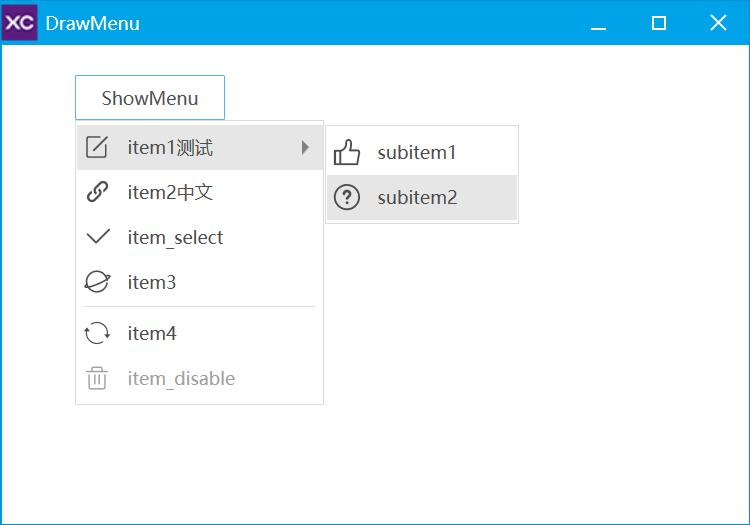
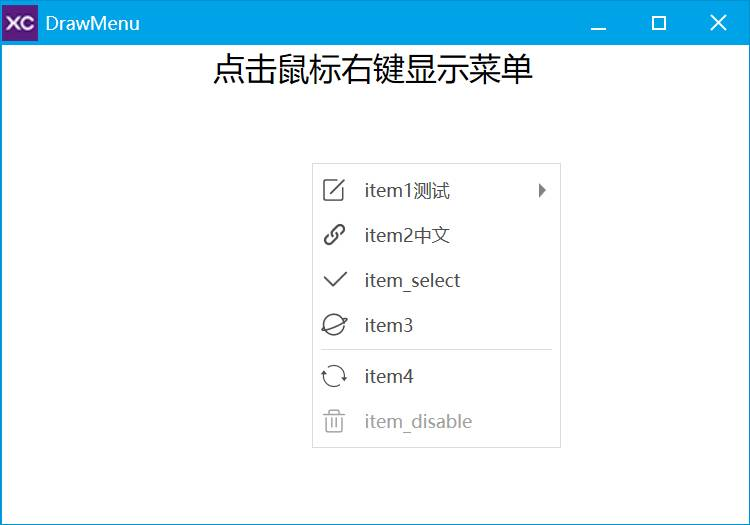
自绘菜单

diff --git a/DrawMenu/DrawMenu.go b/DrawMenu/DrawMenu.go
@@ -13,12 +13,9 @@ import (
 )
 
 var (
-	a   *app.App
-	w   *window.Window
-	btn *widget.Button
-
-	item_selected = true                 // 控制item_select是否选中
-	svgMap        = make(map[int]int, 7) // 存放图片句柄
+	w      *window.Window
+	menu   *widget.Menu
+	svgMap = make(map[int]int) // 存放图片句柄
 )
 
 // 菜单项ID
@@ -34,37 +31,6 @@ const (
 	menuid_item4
 	menuid_item_disable
 )
-
-func main() {
-	// 1.初始化UI库
-	a = app.New(true)
-	a.EnableDPI(true)
-	a.EnableAutoDPI(true)
-	// 2.创建窗口
-	w = window.New(0, 0, 500, 350, "DrawMenu", 0, xcc.Window_Style_Default)
-	w.SetBorderSize(1, 30, 1, 1)
-
-	// 加载所有的svg图片
-	loadAllSvg()
-
-	// 创建一个按钮
-	btn = widget.NewButton(50, 50, 100, 30, "ShowMenu", w.Handle)
-	// 注册按钮被单击事件
-	btn.Event_BnClick(onBnClick)
-
-	// 注册菜单背景绘制事件
-	w.Event_MENU_DRAW_BACKGROUND(onMenuDrawBackground)
-	// 注册菜单项绘制事件
-	w.Event_MENU_DRAWITEM(onMenuDrawItem)
-	// 注册菜单被选择事件
-	w.Event_MENU_SELECT(onMenuSelect)
-
-	// 3.显示窗口
-	w.ShowWindow(xcc.SW_SHOW)
-	// 4.运行程序
-	a.Run()
-	a.Exit()
-}
 
 // 加载所有的svg图片
 func loadAllSvg() {
@@ -85,10 +51,46 @@ func loadSvg(svgText string) int {
 	return hSvg
 }
 
-// 按钮被单击事件
-func onBnClick(pbHandled *bool) int {
+func main() {
+	// 1.初始化UI库
+	app.InitOrExit()
+	a := app.New(true)
+	a.EnableAutoDPI(true).EnableDPI(true)
+
+	// 2.创建窗口
+	w = window.New(0, 0, 500, 350, "DrawMenu", 0, xcc.Window_Style_Default)
+	w.SetBorderSize(1, 30, 1, 1)
+	// 启用窗口布局
+	w.EnableLayout(true)
+	// 水平居中
+	w.SetAlignH(xcc.Layout_Align_Center)
+
+	// 加载所有的svg图片
+	loadAllSvg()
+
+	widget.NewShapeText(0, 0, 400, 30, "点击鼠标右键显示菜单", w.Handle).SetFont(app.NewFont(16).Handle).LayoutItem_SetWidth(xcc.Layout_Size_Auto, 0)
+
+	// 窗口鼠标右键按下事件
+	w.Event_RBUTTONDOWN(onWindowRButtonDown)
+
+	// 注册菜单背景绘制事件
+	w.Event_MENU_DRAW_BACKGROUND(onMenuDrawBackground)
+	// 注册菜单项绘制事件
+	w.Event_MENU_DRAWITEM(onMenuDrawItem)
+	// 注册菜单被选择事件
+	w.Event_MENU_SELECT(onMenuSelect)
+
+	// 3.显示窗口
+	w.ShowWindow(xcc.SW_SHOW)
+	// 4.运行程序
+	a.Run()
+	a.Exit()
+}
+
+// 窗口鼠标右键按下事件
+func onWindowRButtonDown(nFlags uint, pPt *xc.POINT, pbHandled *bool) int {
 	// 创建菜单
-	menu := widget.NewMenu()
+	menu = widget.NewMenu()
 	menu.SetItemHeight(30)          // 设置菜单项高度
 	menu.EnableDrawBackground(true) // 菜单_启用用户绘制背景
 	menu.EnableDrawItem(true)       // 菜单_启用用户绘制项
@@ -97,7 +99,7 @@ func onBnClick(pbHandled *bool) int {
 	menu.AddItemIcon(menuid_item1, "item1测试", 0, svgMap[menuid_item1], xcc.Menu_Item_Flag_Normal)
 	menu.SetItemWidth(menuid_item1, 100) // 设置菜单宽度
 	menu.AddItemIcon(menuid_item2, "item2中文", 0, svgMap[menuid_item2], xcc.Menu_Item_Flag_Normal)
-	if item_selected {
+	if common.StringToBool(w.GetProperty("菜单项选中")) {
 		menu.AddItemIcon(menuid_item_select, "item_select", 0, svgMap[menuid_item_select], xcc.Menu_Item_Flag_Check)
 	} else {
 		menu.AddItem(menuid_item_select, "item_select", 0, xcc.Menu_Item_Flag_Normal)
@@ -111,12 +113,9 @@ func onBnClick(pbHandled *bool) int {
 	menu.AddItemIcon(menuid_subitem1, "subitem1", menuid_item1, svgMap[menuid_subitem1], xcc.Menu_Item_Flag_Normal)
 	menu.AddItemIcon(menuid_subitem2, "subitem2", menuid_item1, svgMap[menuid_subitem2], xcc.Menu_Item_Flag_Normal)
 
-	// 获取按钮坐标
-	var rc xc.RECT
-	btn.GetWndClientRectDPI(&rc)
-	// 转换到屏幕坐标
-	pt := wapi.POINT{X: rc.Left, Y: rc.Bottom}
-	wapi.ClientToScreen(w.GetHWND(), &pt)
+	// 获取鼠标光标的位置
+	var pt wapi.POINT
+	wapi.GetCursorPos(&pt)
 	// 弹出菜单
 	menu.Popup(w.GetHWND(), pt.X, pt.Y, 0, xcc.Menu_Popup_Position_Left_Top)
 	return 0
@@ -224,7 +223,11 @@ func onMenuDrawItem(hDraw int, pInfo *xc.Menu_DrawItem_, pbHandled *bool) int {
 // 菜单被选择事件
 func onMenuSelect(nID int32, pbHandled *bool) int {
 	if nID == menuid_item_select {
-		item_selected = !item_selected
+		if common.StringToBool(w.GetProperty("菜单项选中")) {
+			w.SetProperty("菜单项选中", common.BoolToString(false))
+		} else {
+			w.SetProperty("菜单项选中", common.BoolToString(true))
+		}
 	}
 	return 0
 }
